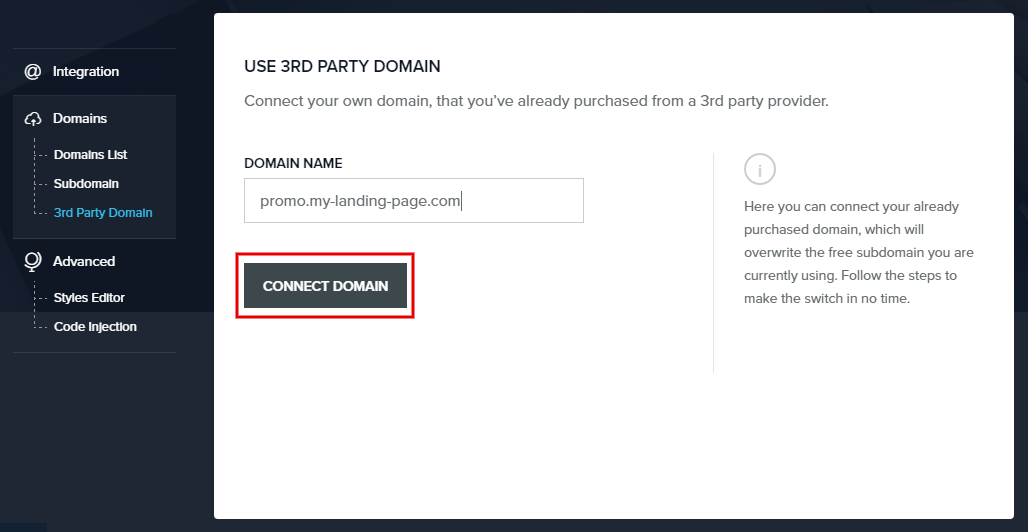
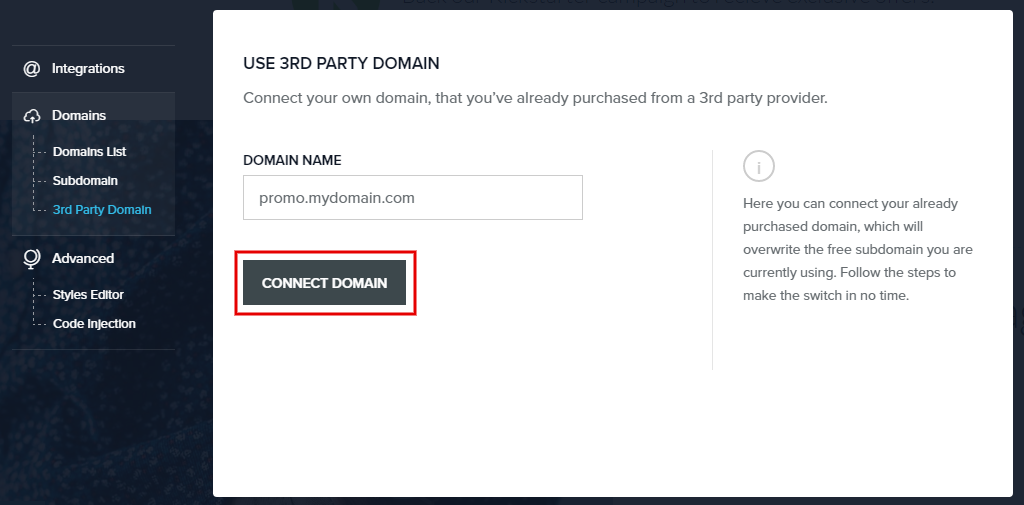
..

diff --git a/publishing/third-party-domains/bluehost/index.rst b/publishing/third-party-domains/bluehost/index.rst
@@ -167,7 +167,7 @@ Set up your subdomain with BlueHost
 
 		|bitblox-click-3-rd-party-domain|
 
-11. In the **Domain Name** box enter the full domain name you want to link (ex: ``promo.my-landing-page.com``), and then click **Connect Domain** button
+11. In the **Domain Name** box enter the full domain name you want to link (ex: ``promo.mydomain.com``), and then click **Connect Domain** button
 
 
     .. class:: screenshot
